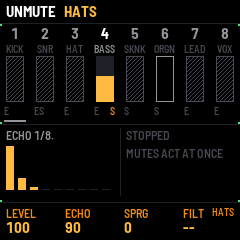
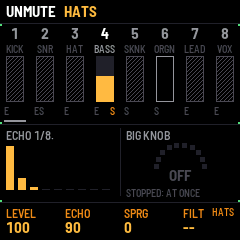
P1.1 stepped Big Knob HPF: 3rd-order, 10 steps + off, unsmoothed
- app/engine/bigknob.c: a TPT one-pole high-pass and a TPT state-variable
  high-pass (Q 1) at the same cutoff: a 3rd-order Butterworth, 18 dB/oct.
  Coefficients jump per detent (stable in this form); from off it starts
  at rest.
- Steps as the Altec 9069B replicas: 70, 100, 150, 250, 500 Hz, 1, 2, 3,
  5, 7.5 kHz (P_HPF_STEP); on the mix or the echo's return (P_HPF_ON,
  SETUP, saved).
- SELECT turns it on every page but SETUP (HOME + SELECT stays tempo);
  the centre shows the detents as an arc and the frequency.
- bigknob.txt: the response against |H| = r^3/sqrt(1+r^6) (110 Hz through
  70 / 100 / 500 Hz: -0.3 / -1.9 / -39.5 dB), abrupt step changes bounded,
  on the echo return only. New out_db check (the mix before MASTER).

Cost: ~15 flops a sample (all tiers); RAM +40 B.

Claude-Session: https://claude.ai/code/session_01GSTvjMb848ASjPbPe5cnK6

Changed region(s): [[0.525, 0.525, 0.9333, 0.7292], [0.525, 0.7875, 0.8458, 0.8458], [0.7, 0.7, 0.7875, 0.7583]]

diff --git a/app/engine/engine.c b/app/engine/engine.c
@@ -7,6 +7,7 @@
 #include "echo.h"
 #include "voices.h"
 #include "riddim.h"
+#include "bigknob.h"
 #include "dsp.h"
 
 cmdq_t eng_q;
@@ -56,7 +57,10 @@ static float buf[ENG_BLOCK], dry[ENG_BLOCK], ebus[ENG_BLOCK], sbus[ENG_BLOCK], e
 static volatile float echo_peak, spring_peak, echo_ret_peak;
 static ramp_t echo_ret;                          /* the echo return's level */
 static volatile int32_t echo_div_now;
-static volatile uint32_t lock_now = 0xFFFu;      /* the key lock's allowed pitch classes (P0.8), this block's            /* the division in use (the longest that fits, at this tempo) */
+static volatile uint32_t lock_now = 0xFFFu;
+static bigknob_t bk;                             /* the Big Knob (P1.1) */
+static int32_t bk_step = -1;                     /* its step set */
+static volatile float out_peak;                  /* the output's, before MASTER (tests, meters)      /* the key lock's allowed pitch classes (P0.8), this block's            /* the division in use (the longest that fits, at this tempo) */
 static volatile uint32_t cmds;
 static float gain_now;                           /* MASTER, glided: no step at a block's edge */
 
@@ -296,6 +300,10 @@ static void bus_update(void)                     /* the echo's and the voices' s
     ramp_to(&echo_ret, send(ev[P_ECHO_RET]));
     voices_config(ev);
     lock_now = lock_mask(ev, t_playing ? t_beat / 4u : 0u);
+    if (ev[P_HPF_STEP] != bk_step) {             /* a step: at once, unsmoothed (the detents are the sound) */
+        bk_step = ev[P_HPF_STEP];
+        bigknob_step(&bk, hpf_hz(bk_step));
+    }
 }
 
 static void drain(void)                          /* every queued command, at the start of the block */
@@ -350,6 +358,8 @@ void eng_init(void)
     strips_update();
     echo_init();
     voices_init();
+    bigknob_init(&bk);
+    bk_step = -1;
     echo_ret.g = echo_ret.target = 0.0f;
     echo_ret.left = 0;
     bus_update();
@@ -486,15 +496,23 @@ static void render_seg(int32_t *lr, uint32_t n, float gain)   /* n samples, the 
     }
     echo_run(ebus, eret, n);
     prof_mark(PART_ECHO);
+    if (ev[P_HPF_ON] == HPF_ON_ECHO)             /* the Big Knob on the echo's return */
+        bigknob_run(&bk, eret, n);
     {
-        float rp = 0.0f;
+        float rp = 0.0f, op = 0.0f;
         for (i = 0; i < n; i++) {
-            float y, r = ramp_next(&echo_ret) * eret[i];
+            float r = ramp_next(&echo_ret) * eret[i];
             ep = fm_maxf(ep, fm_fabsf(ebus[i]));
             sp = fm_maxf(sp, fm_fabsf(sbus[i]));
             rp = fm_maxf(rp, fm_fabsf(r));
+            dry[i] += r;                         /* mono dry and the echo's return (stereo returns: P1.5) */
+        }
+        if (ev[P_HPF_ON] == HPF_ON_MIX)          /* the Big Knob on the whole mix */
+            bigknob_run(&bk, dry, n);
+        for (i = 0; i < n; i++) {
+            float y = dry[i];
+            op = fm_maxf(op, fm_fabsf(y));
             gain_now = undenorm(gain_now + (gain - gain_now) * 0.004f);   /* ~5 ms: MASTER does not click */
-            y = dry[i] + r;                      /* mono dry and the echo's return (stereo returns: P1.5) */
             if (tick_amp > 1e-4f) {              /* the runway's tick, not sent anywhere */
                 y += tick_amp * fm_sin_turns(tick_ph);
                 tick_ph = tick_ph + tick_inc >= 1.0f ? tick_ph + tick_inc - 1.0f : tick_ph + tick_inc;
@@ -505,6 +523,7 @@ static void render_seg(int32_t *lr, uint32_t n, float gain)   /* n samples, the 
             lr[2 * i + 1] = (int32_t)y;
         }
         echo_ret_peak = rp;
+        out_peak = op;
     }
     echo_peak = ep;
     spring_peak = sp;
@@ -565,6 +584,7 @@ float eng_spring_peak(void) { return spring_peak; }
 uint32_t eng_cmds(void) { return cmds; }
 uint32_t eng_seq_hits(void) { return seq_hits; }
 uint32_t eng_ticks(void) { return ticks; }
+float eng_out_peak(void) { return out_peak; }
 int eng_midi_allowed(int32_t note)               /* MIDI in, when the lock covers it (P_LOCK_MIDI) */
 {
     return !ev[P_LOCK_MIDI] || (lock_now >> (note % 12) & 1u);

diff --git a/app/app.c b/app/app.c
@@ -11,7 +11,7 @@
 #include "engine/params.c"                  /* (GPL-3.0-only: the parameters and the main loop's side of them) */
 #include "engine/control.c"
 
-#define SET_MAGIC 0x44554236u            /* "DUB6": the settings record; another magic loads defaults */
+#define SET_MAGIC 0x44554237u            /* "DUB7": the settings record; another magic loads defaults */
 typedef struct {
     uint32_t magic;
     int16_t tempo;                       /* P_TEMPO: BPM x 10 */
@@ -20,6 +20,7 @@ typedef struct {
     uint8_t echo_time, echo_fb, echo_ret, spring_ret;   /* the DUB page's knobs */
     uint8_t setup[P_NGLOBAL];            /* the globals from P_LEAD on: lead, cycle, runway .. (SETUP) */
     uint8_t chords[P_CHORD_END - P_CHORD0];   /* the chord lane */
+    uint8_t hpf_on;                      /* where the Big Knob sits */
 } settings_t;
 /* the sounds: every voice parameter (P_VOICE_BASE..P_NIDS), in their own store object (OBJ_SOUND) */
 #define SOUND_MAGIC 0x534E4431u          /* "SND1" */
@@ -89,6 +90,7 @@ static void settings_defaults(void)
     set.echo_fb = (uint8_t)param_def(P_ECHO_FB);
     set.echo_ret = (uint8_t)param_def(P_ECHO_RET);
     set.spring_ret = (uint8_t)param_def(P_SPRING_RET);
+    set.hpf_on = (uint8_t)param_def(P_HPF_ON);
     {
         uint32_t i;
         for (i = P_LEAD; i < P_NGLOBAL; i++)
@@ -106,6 +108,7 @@ static void settings_save(void)
     set.echo_fb = (uint8_t)ctl_get(P_ECHO_FB);
     set.echo_ret = (uint8_t)ctl_get(P_ECHO_RET);
     set.spring_ret = (uint8_t)ctl_get(P_SPRING_RET);
+    set.hpf_on = (uint8_t)ctl_get(P_HPF_ON);
     {
         uint32_t i;
         for (i = P_LEAD; i < P_NGLOBAL; i++)
@@ -165,6 +168,7 @@ void app_init(void)
     ctl_set(P_ECHO_FB, set.echo_fb);
     ctl_set(P_ECHO_RET, set.echo_ret);
     ctl_set(P_SPRING_RET, set.spring_ret);
+    ctl_set(P_HPF_ON, set.hpf_on);
     {
         uint32_t i;
         for (i = P_LEAD; i < P_NGLOBAL; i++)
@@ -316,6 +320,8 @@ int app_expect(const char *what, int *got)
         *got = what[0] == 'e' ? eng_param((uint32_t)id) : ctl_get((uint32_t)id);
     } else if (!strncmp(what, "ch", 2) && what[2] >= '1' && what[2] <= '8' && !strcmp(what + 3, "_db"))
         *got = peak_db(eng_ch_peak((uint32_t)(what[2] - '1')));   /* post-fader, dBFS (-120: silent) */
+    else if (!strcmp(what, "out_db"))        /* the mix, before MASTER */
+        *got = peak_db(eng_out_peak());
     else if (!strcmp(what, "echo_db"))
         *got = peak_db(eng_echo_peak());
     else if (!strcmp(what, "echo_ret_db"))   /* the echo's return, after its level */

diff --git a/app/setup.c b/app/setup.c
@@ -4,11 +4,11 @@
  * reduced motion and the test tones. KNOB 1 (or SELECT) moves through the list, KNOB 2 (or PRESET) changes the
  * item. Part of the unity build: dub.c includes it. Saved with SAVE (but the test tones). */
 
-enum { SU_CYCLE, SU_RUNWAY, SU_KEYS, SU_NUM, SU_TICK, SU_REDUCED, SU_LEAD, SU_LOCK_MIDI, SU_TONES, SU_N };
+enum { SU_CYCLE, SU_RUNWAY, SU_KEYS, SU_NUM, SU_TICK, SU_REDUCED, SU_LEAD, SU_LOCK_MIDI, SU_HPF_ON, SU_TONES, SU_N };
 static const char *const SU_NAME[SU_N] = {"CYCLE", "RUNWAY", "RUNWAY ON KEYS", "COUNTDOWN NUMERALS", "CUE TICK",
-                                          "REDUCED MOTION", "CUE LEAD", "LOCK MIDI IN", "TEST TONES"};
+                                          "REDUCED MOTION", "CUE LEAD", "LOCK MIDI IN", "BIG KNOB ON", "TEST TONES"};
 static const uint16_t SU_ID[SU_N] = {P_CYCLE, P_RUNWAY, P_RUNWAY_KEYS, P_RUNWAY_NUM, P_TICK, P_REDUCED, P_LEAD,
-                                     P_LOCK_MIDI, P_DEV_TONES};
+                                     P_LOCK_MIDI, P_HPF_ON, P_DEV_TONES};
 static int32_t su_cur;
 static uint32_t su_sig;
 
@@ -21,6 +21,8 @@ static void su_value(uint32_t i, char *t)
         int_text((int32_t)(i == SU_CYCLE ? cycle_bars(v) : runway_bars(v)), n);
         text_cat(t, n);
         text_cat(t, v == 0 && i == SU_RUNWAY ? " BAR" : " BARS");
+    } else if (i == SU_HPF_ON) {
+        text_cat(t, v == HPF_ON_ECHO ? "ECHO RETURN" : "MIX");
     } else if (i == SU_LEAD) {
         int_text(v, n);
         text_cat(t, n);
@@ -70,9 +72,9 @@ static void setup_draw(int all)          /* the list in the strips' and centre's
     cv_begin(240, PAGE_H, C_BLACK);      /* (a canvas holds 144 rows: the rest of the area below, cleared) */
     cv_text(6, 2, &FONT_XS, "SETUP", C_GRAY);
     for (i = 0; i < SU_N; i++) {
-        int32_t y = 17 + (int32_t)i * 14, cur = (int32_t)i == su_cur;
+        int32_t y = 16 + (int32_t)i * 12, cur = (int32_t)i == su_cur;
         if (cur)
-            cv_rect(0, y - 1, 240, 14, C_LINE);
+            cv_rect(0, y - 1, 240, 12, C_LINE);
         cv_text(10, y, &FONT_T, SU_NAME[i], cur ? C_WHITE : C_GRAY);
         su_value(i, t);
         cv_text(232 - text_w(&FONT_T, t), y, &FONT_T, t, cur ? C_HI : C_AMB);

diff --git a/app/dub.c b/app/dub.c
@@ -508,6 +508,10 @@ static void encoder(uint32_t k, int32_t e)
         dub.dirty_hdr = 1;
         tempo_text(t);
         app_say("TEMPO", t);
+    } else if (k == EN_SELECT && dub.page != PAGE_SETUP) {   /* the Big Knob: a detent a step, at once */
+        ctl_set(P_HPF_STEP, ctl_get(P_HPF_STEP) + e);
+        dub.dirty_centre = 1;
+        app_say("BIG KNOB", hpf_name(ctl_get(P_HPF_STEP)));
     } else if (k == EN_ALGO) {
         dub.focus = (dub.focus + e % (int32_t)NCH + (int32_t)NCH) % (int32_t)NCH;
         if (dub.sound)
@@ -828,13 +832,19 @@ static void draw_centre(void)
         cv_text(126, 22, &FONT_XS, "LANDS IN", C_GRAY);
         lands_text(lands_in(), t);
         cv_text(126, 38, &FONT_M, t, C_AMB);
-    } else if (!eng_playing()) {
-        cv_text(126, 4, &FONT_XS, "STOPPED", C_DIM);
-        cv_text(126, 22, &FONT_XS, "MUTES ACT AT ONCE", C_DIM);
-    } else {
-        cv_text(126, 4, &FONT_XS, "NEXT LINE", C_DIM);
+    } else {                             /* the Big Knob: its ten detents as an arc, lit to the step */
+        int32_t stp = eng_param(P_HPF_STEP), k;
+        cv_text(126, 4, &FONT_XS, ctl_get(P_HPF_ON) == HPF_ON_ECHO ? "BIG KNOB: ECHO" : "BIG KNOB", C_GRAY);
+        for (k = 1; k <= HPF_STEPS; k++) {
+            float a = 3.14159265f * (1.0f - (float)(k - 1) / (float)(HPF_STEPS - 1));   /* left to right */
+            int32_t x = 180 + (int32_t)(24.0f * fm_cosf(a)), y = 42 - (int32_t)(22.0f * fm_sinf(a));
+            cv_rect(x - 2, y - 2, 5, 5, k <= stp ? C_HI : C_LINE);
+        }
+        cv_text(180 - text_w(&FONT_B, hpf_name(stp)) / 2, 44, &FONT_B, hpf_name(stp), stp ? C_WHITE : C_DIM);
         lands_text(lands_in(), t);
-        cv_text(126, 22, &FONT_B, t, C_GRAY);
+        cv_text(126, 63, &FONT_T, eng_playing() ? "NEXT LINE" : "STOPPED: AT ONCE", C_DIM);
+        if (eng_playing())
+            cv_text(184, 63, &FONT_T, t, C_GRAY);
     }
     cv_rect(0, 0, 240, 1, C_LINE);
     cv_blit(0, CENTRE_Y);

diff --git a/app/engine/params.c b/app/engine/params.c
@@ -77,6 +77,10 @@ static const pdesc_t ECHO[P_ECHO_END - P_ECHO_TIME] = {
     [P_ECHO_PUSH - P_ECHO_TIME] = {"echo.push", 0, 1, 0},
 };
 static const pdesc_t SPRING_RET = {"spring.ret", 0, 127, 90};
+static const pdesc_t HPF[P_HPF_END - P_HPF_STEP] = {
+    {"hpf", 0, HPF_STEPS, 0},
+    {"hpf.on", 0, HPF_ON_N - 1, HPF_ON_MIX},
+};
 static const pdesc_t DEV_TONES = {"dev.tones", 0, 1, 0};
 
 float echo_div_beats(int32_t d)
@@ -92,6 +96,17 @@ const char *echo_div_name(int32_t d)
     return d >= 0 && d < ECHO_DIV_N ? N[d] : "";
 }
 float echo_t60(int32_t fb) { return 0.1f * fm_exp2f((float)fb * 0.1f); }
+
+/* the Altec 9069B's steps, as the replicas and emulations list them (mastery guide B1, C3) */
+static const float HPF_HZ[HPF_STEPS + 1] = {0.0f, 70.0f, 100.0f, 150.0f, 250.0f, 500.0f, 1000.0f, 2000.0f, 3000.0f,
+                                            5000.0f, 7500.0f};
+float hpf_hz(int32_t step) { return step >= 0 && step <= HPF_STEPS ? HPF_HZ[step] : 0.0f; }
+const char *hpf_name(int32_t step)
+{
+    static const char *const N[HPF_STEPS + 1] = {"OFF", "70 HZ", "100 HZ", "150 HZ", "250 HZ", "500 HZ", "1K", "2K",
+                                                 "3K", "5K", "7.5K"};
+    return step >= 0 && step <= HPF_STEPS ? N[step] : "";
+}
 
 uint32_t quant_beats(int32_t q)
 {
@@ -119,6 +134,8 @@ const pdesc_t *param_desc(uint32_t id)
         return &ECHO[id - P_ECHO_TIME];
     if (id == P_SPRING_RET)
         return &SPRING_RET;
+    if (id >= P_HPF_STEP && id < P_HPF_END)
+        return &HPF[id - P_HPF_STEP];
     if (id >= P_CH_BASE && id < P_CH_BASE + NCH * CH_STRIDE && (id - P_CH_BASE) % CH_STRIDE < CHF_N)
         return &CH_FIELDS[(id - P_CH_BASE) % CH_STRIDE];
     if (id >= P_VOICE_BASE && id < P_VOICE_BASE + NCH * VOICE_STRIDE) {

diff --git a/app/engine/bigknob.c b/app/engine/bigknob.c
@@ -1,0 +1,55 @@
+/* SPDX-License-Identifier: GPL-3.0-only
+ * Copyright (C) 2026 Dubwise FM contributors */
+/* bigknob.h. Compiled on its own at -O2 (fm1.toml o2). Floats only. */
+#include "bigknob.h"
+#include "fastmath.h"
+#include "dsp.h"
+
+void bigknob_init(bigknob_t *b)
+{
+    b->s1 = b->ic1 = b->ic2 = 0.0f;
+    b->on = 0;
+    b->g1 = b->g = b->k = b->d = 0.0f;
+}
+
+void bigknob_step(bigknob_t *b, float hz)
+{
+    float g;
+    if (hz <= 0.0f) {
+        b->on = 0;
+        return;
+    }
+    g = fm_tanf(3.14159265f * hz / 44100.0f);    /* the bilinear transform's prewarped cutoff */
+    b->g1 = g / (1.0f + g);                      /* the one-pole */
+    b->g = g;
+    b->k = 1.0f;                                 /* 1 / Q: Q 1 with the one-pole is a 3rd-order Butterworth */
+    b->d = 1.0f / (1.0f + g * (g + b->k));
+    if (!b->on) {                                /* engaged from off: start from rest */
+        b->s1 = b->ic1 = b->ic2 = 0.0f;
+    }
+    b->on = 1;
+}
+
+void bigknob_run(bigknob_t *b, float *x, uint32_t n)
+{
+    uint32_t i;
+    float g1 = b->g1, g = b->g, k = b->k, d = b->d, s1 = b->s1, ic1 = b->ic1, ic2 = b->ic2;
+    if (!b->on)
+        return;
+    for (i = 0; i < n; i++) {
+        /* one-pole high-pass: v = (x - s) G; lp = v + s; s = lp + v; hp = x - lp */
+        float v = (x[i] - s1) * g1, lp = v + s1, h1, hp, v1, v2;
+        s1 = lp + v;
+        h1 = x[i] - lp;
+        /* the two-pole state-variable filter's high-pass output */
+        hp = (h1 - (g + k) * ic1 - ic2) * d;
+        v1 = g * hp + ic1;
+        v2 = g * v1 + ic2;
+        ic1 = g * hp + v1;
+        ic2 = g * v1 + v2;
+        x[i] = hp;
+    }
+    b->s1 = undenorm(s1);
+    b->ic1 = undenorm(ic1);
+    b->ic2 = undenorm(ic2);
+}

diff --git a/app/engine/params.h b/app/engine/params.h
@@ -87,12 +87,19 @@ enum {
     P_ECHO_END,
     P_SPRING_RET = 0x0D0,     /* the spring's return (P1.2), 0..127 */
     P_SPRING_END,
+    P_HPF_STEP = 0x0E0,       /* the Big Knob (P1.1): 0 off, 1..10 = HPF_HZ */
+    P_HPF_ON,                 /* where it sits: HPF_ON_MIX (the master), HPF_ON_ECHO (the echo's return) */
+    P_HPF_END,
 };
 enum { ECHO_DIV_16, ECHO_DIV_8T, ECHO_DIV_16D, ECHO_DIV_8, ECHO_DIV_4T, ECHO_DIV_8D, ECHO_DIV_4, ECHO_DIV_2T,
        ECHO_DIV_4D, ECHO_DIV_2, ECHO_DIV_N };
 float echo_div_beats(int32_t d);
 const char *echo_div_name(int32_t d);                 /* "1/8." */
 float echo_t60(int32_t fb);                          /* seconds */
+enum { HPF_ON_MIX, HPF_ON_ECHO, HPF_ON_N };
+#define HPF_STEPS 10
+float hpf_hz(int32_t step);                          /* a step's cutoff, Hz (0: off) */
+const char *hpf_name(int32_t step);                  /* "500 HZ", "1K", "OFF" */
 uint32_t quant_beats(int32_t q);                     /* 1, 4, 8 .. 128 (4/4); QUANT_CYCLE: the UI's (cycle) */
 uint32_t cycle_bars(int32_t c);                      /* 8, 16, 32, 64 */
 uint32_t runway_bars(int32_t r);                     /* 1, 2, 4, 8 */

diff --git a/app/engine/bigknob.h b/app/engine/bigknob.h
@@ -1,0 +1,18 @@
+/* SPDX-License-Identifier: GPL-3.0-only
+ * Copyright (C) 2026 Dubwise FM contributors */
+/* The Big Knob (roadmap P1.1; mastery guide C3): a stepped 3rd-order Butterworth high-pass, 18 dB/oct, ten steps
+ * from 70 Hz to 7.5 kHz and off, as Tubby's Altec 9069B. A step switches at once, unsmoothed: the detents' "clicky"
+ * quality is the sound (C3). A one-pole and a two-pole (Q 1) state-variable high-pass, topology-preserving
+ * (Zavalishin's TPT form), which stays stable when its coefficients jump. Mono (the dry path is). */
+#pragma once
+#include <stdint.h>
+
+typedef struct {
+    float g1, g, k, d;                           /* the step's coefficients (g1: the one-pole's G) */
+    float s1, ic1, ic2;                          /* state */
+    int on;
+} bigknob_t;
+
+void bigknob_init(bigknob_t *b);
+void bigknob_step(bigknob_t *b, float hz);       /* 0: off (bypass) */
+void bigknob_run(bigknob_t *b, float *x, uint32_t n);   /* in place */

diff --git a/app/engine/engine.h b/app/engine/engine.h
@@ -44,6 +44,7 @@ uint32_t eng_cues(void);                     /* cues waiting */
 uint32_t eng_cue_overflows(void);
 uint32_t eng_seq_hits(void);
 uint32_t eng_ticks(void);
+float eng_out_peak(void);                   /* the mix's peak over the last block, before MASTER */
 int eng_midi_allowed(int32_t note);           /* the key lock on MIDI in (audio interrupt) */
 uint32_t eng_frac16(void);                   /* how far into the sixteenth, 0..255 */                    /* runway tick blips since boot */
 int32_t eng_tick(void);                      /* the sixteenth playing since the start, -1 stopped */                 /* steps the sequencer has played since boot */

diff --git a/app/docs/MANUAL.md b/app/docs/MANUAL.md
@@ -48,7 +48,7 @@ can recover an FM-1 that doesn't start, too. For details, see felucca-bsp's `too
 | Header | The tempo, playing (triangle) or stopped (square), the cycle bar (a segment a bar, in fours, this bar filling beat by beat), the bar you're in out of the cycle (5/16), and the quantise setting (Q). It turns amber on the runway. After a change, a message shows here for a moment. |
 | Channel strips | The eight channels: 1 KICK, 2 SNR (snare), 3 HAT, 4 BASS, 5 SKNK (skank), 6 ORGN (organ), 7 LEAD, 8 VOX. A filled box is playing, with its level brighter over it. An outlined box is muted. A hatched box is muted by someone else's solo. S marks a solo. A strip that blinks white has a change waiting. A line under a strip marks the focus. Under each box, where a throw sends the channel: E (echo), S (spring) or ES (both). A thrown channel's number lights up. |
 | Centre, left | The echo: its time, and its repeats as they fall. They turn amber near endless feedback and red past it. A red line underneath shows the echo's limiter at work. |
-| Centre, right | What's waiting (CUED) and when it lands: NEXT BEAT, 1 BAR, 2 BARS and so on. |
+| Centre, right | The Big Knob: its ten steps as an arc, and where it is. While something waits, what's waiting (CUED) and when it lands: NEXT BEAT, 1 BAR, 2 BARS and so on. On the runway, the countdown. |
 | Bottom line | The four knobs and their values: echo TIME, feedback (FB, how long the repeats take to die away), the ECHO return and the spring return (SPRG). While you hold a mute key, the held channel's LEVEL, ECHO send, spring send (SPRG) and filter. |
 
 ---
@@ -61,6 +61,7 @@ can recover an FM-1 that doesn't start, too. For details, see felucca-bsp's `too
 | HOME + white key 1–8 | Solo, without the double tap. |
 | OCT− · OCT+ | The quantise setting: BEAT, 1, 2, 4, 8, 16 or 32 bars, or CYCLE (the next "one"). While playing, a mute or solo waits for the next line of that setting and lands on it, a hair (10 ms) early so it catches the downbeat. Its key blinks until then. |
 | PLAY | Start and stop (when you let go). Starting counts from bar 1. Stopping makes anything waiting happen at once. Hold PLAY while you press a white key to make that change now instead of on the line. |
+| SELECT · BIG KNOB | The Big Knob: a steep high-pass filter in steps, like King Tubby's: OFF, 70, 100, 150, 250, 500 Hz, 1, 2, 3, 5, 7.5 kHz. Each click jumps straight to the next step, which is part of its sound. Sweep it up to make the mix "evaporate", snap it back on the one. On the whole mix, or only the echo's return (SETUP). |
 | HOME + SELECT | Tempo, 1 BPM a click. |
 | ALGORITHM | Moves the focus between the channels. |
 | EDIT | The SOUND view: KNOB 1–4 edit the focused channel's voice, four settings at a time. Press EDIT again for the next four, then once more to go back to the echo's knobs. ALGORITHM picks the channel. |
@@ -104,6 +105,7 @@ Turn KNOB 1 (or SELECT) to move through the list and KNOB 2 (or PRESET) to chang
 | REDUCED MOTION | No pulsing border, no green flash. The count still shows, and the screen reader still hears it. |
 | CUE LEAD | How early a quantised change lands before its line: 0–50 ms (10 by default, so it catches the downbeat). |
 | LOCK MIDI IN | The key lock filters MIDI notes coming in, too (off by default). |
+| BIG KNOB ON | Where the Big Knob sits: the whole MIX, or only the ECHO RETURN. |
 | TEST TONES | A test tone on every channel (not saved). |
 
 ## 3c. The STEPS page (SEQ)

diff --git a/docs/roadmap.md b/docs/roadmap.md
@@ -106,7 +106,7 @@ image +6.2 KB (the page); CPU only while a cue waits (the transport stepped per 
 ## P1 — Signature tone
 | # | Feature | Ref | Notes |
 |---|---|---|---|
-| 1.1 | Stepped Big Knob HPF | C3 | 3rd-order, 10 steps + off, no smoothing; on master and echo return |
+| 1.1 | Stepped Big Knob HPF | C3 | 3rd-order, 10 steps + off, no smoothing; on master and echo return. **Done (2026-11-08)**, `app/engine/bigknob.c`: TPT one-pole + SVF (Q 1) high-pass = 3rd-order Butterworth, coefficients jump per detent (stable); 70 Hz–7.5 kHz; on the mix or the echo return (SETUP). SELECT on any page but SETUP. Tested against \|H\| = r³/√(1+r⁶) (−0.3, −1.9, −39.5 dB at 110 Hz through 70, 100, 500 Hz). Cost ≈ 15 flops a sample, all tiers |
 | 1.2 | Spring + crash | C5 | Black 1 crash. Held during a throw, it adds the spring |
 | 1.3 | Return cross-sends | B5 | Echo ↔ spring, loop-gain clamped |
 | 1.4 | Tape-dive control | C4 drill 3 | |
